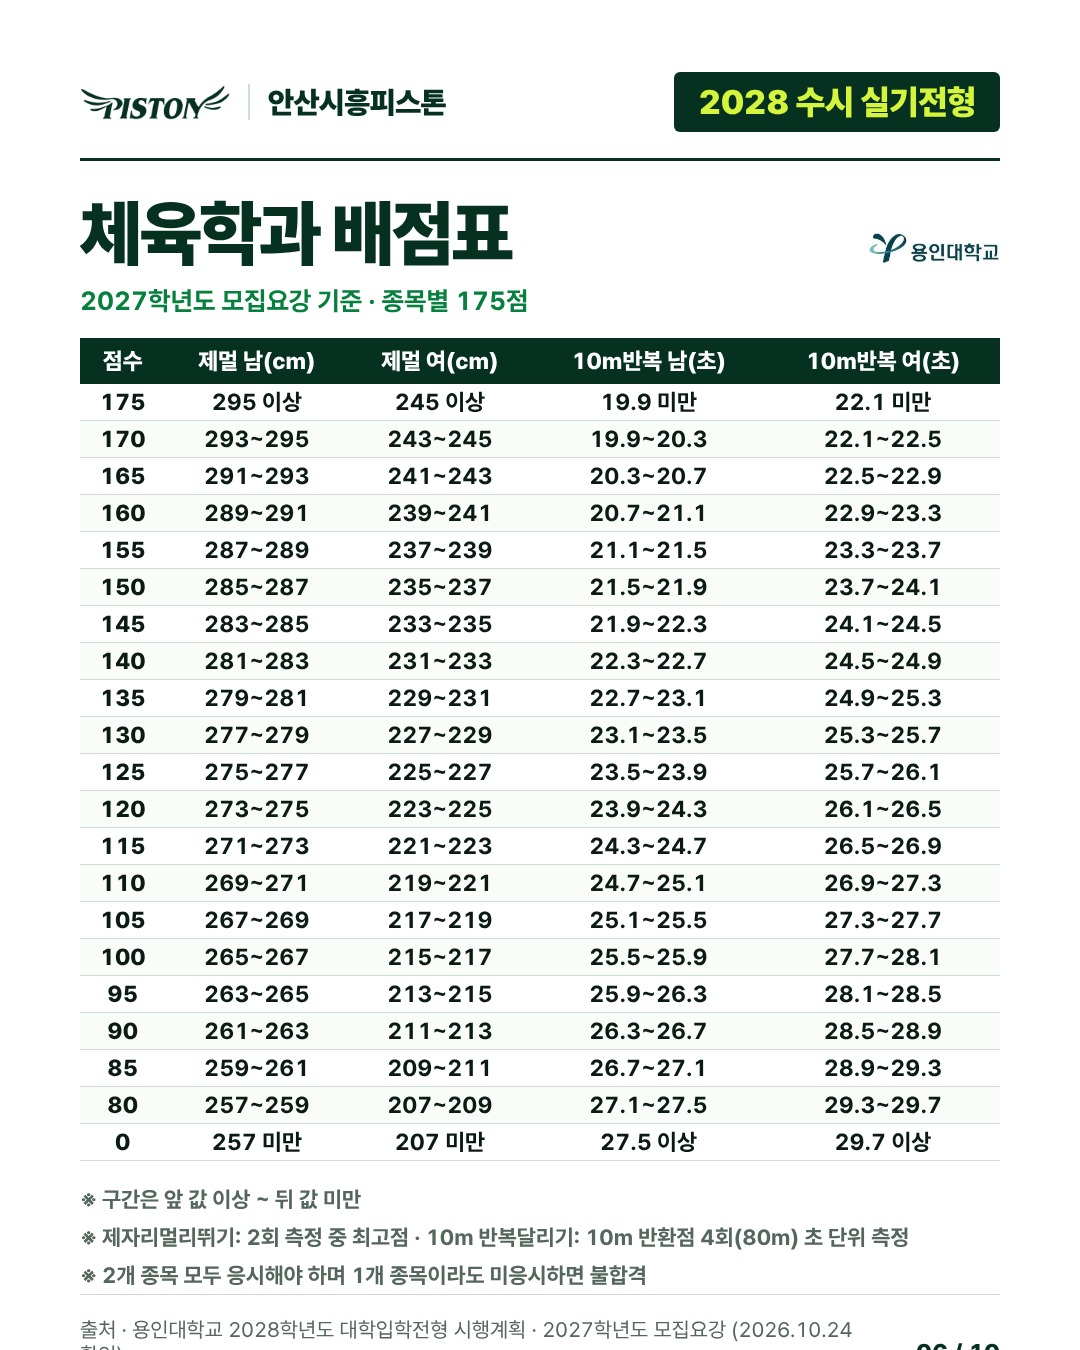
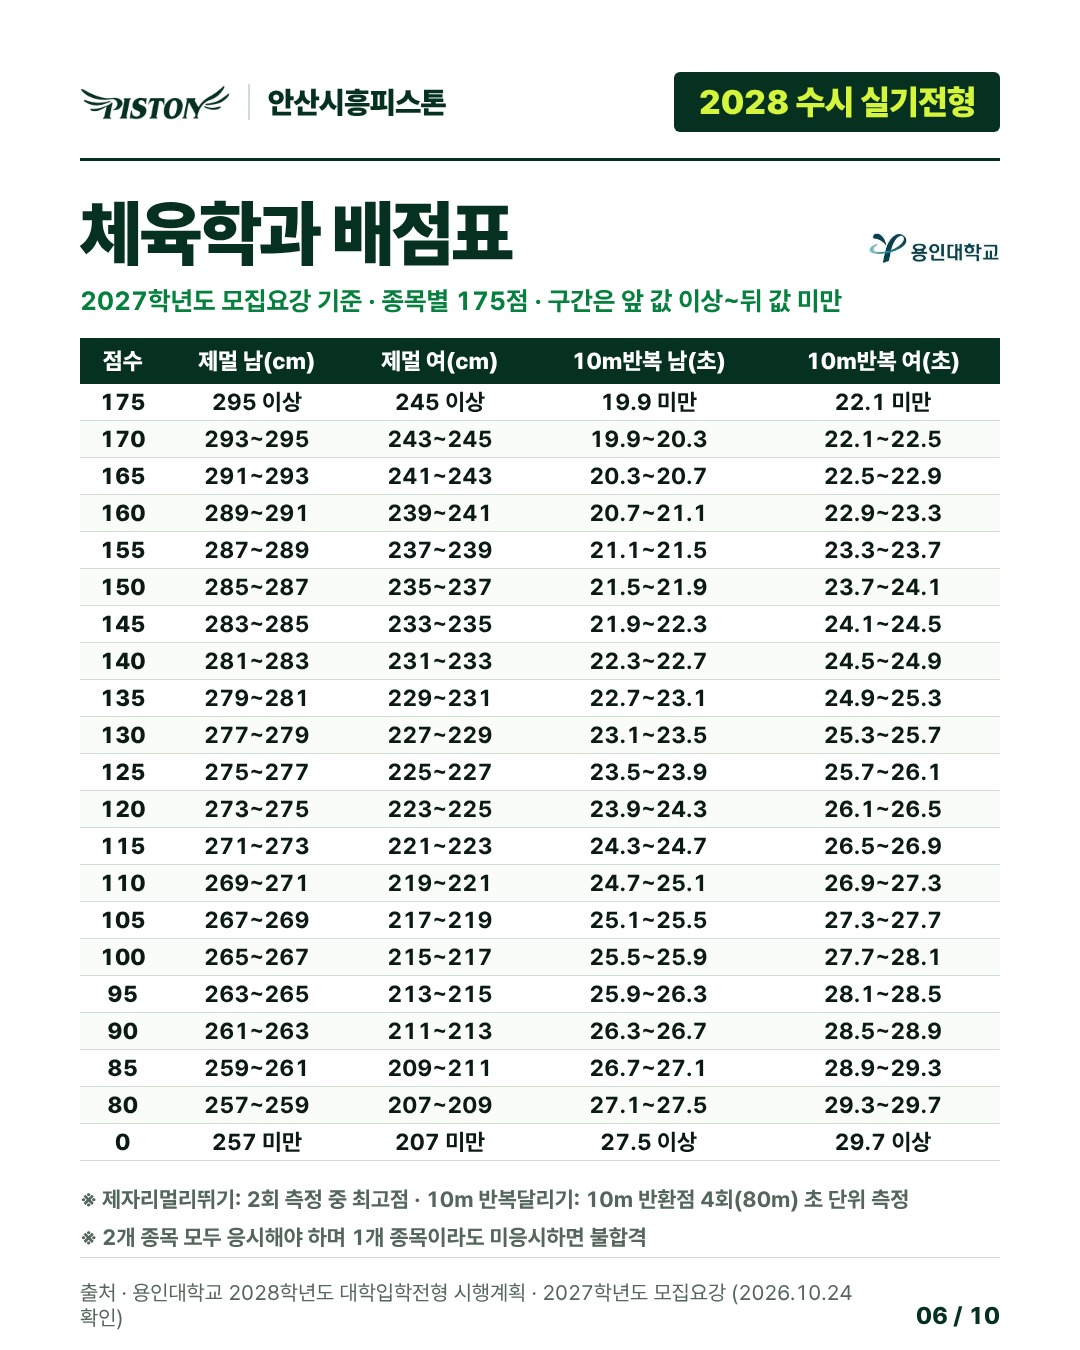
용인대 배점표 양식 통일, 수시 표 밀도 조정
Claude-Session: https://claude.ai/code/session_01EGTn7G8nWP1yv5M2jqmoFb

Changed region(s): [[0.0611, 0.8711, 0.8556, 1.0], [0.5194, 0.2178, 0.7944, 0.2489], [0.825, 0.9644, 0.9472, 1.0]]

diff --git a/social/out/yongin-susi/blog.md b/social/out/yongin-susi/blog.md
@@ -55,7 +55,7 @@
 
 
 
-## 스포츠레저학과 배점표 (2027학년도 모집요강 기준 · 종목별 175점)
+## 스포츠레저학과 배점표 (2027학년도 모집요강 기준 · 종목별 175점 · 구간은 앞 값 이상~뒤 값 미만)
 | 점수 | 제멀 남(cm) | 제멀 여(cm) | 10m반복 남(초) | 10m반복 여(초) |
 | --- | --- | --- | --- | --- |
 | 175 | 300 이상 | 250 이상 | 19.4 미만 | 21.6 미만 |
@@ -71,13 +71,12 @@
 | 75 | 250~255 | 200~205 | 23.9~24.4 | 26.1~26.6 |
 | 0 | 250 미만 | 200 미만 | 24.4 이상 | 26.6 이상 |
 
-※ 구간은 앞 값 이상 ~ 뒤 값 미만
 ※ 제자리멀리뛰기: 2회 측정 중 최고점 · 10m 반복달리기: 10m 반환점 4회(80m) 초 단위 측정
 ※ 2개 종목 모두 응시해야 하며 1개 종목이라도 미응시하면 불합격
 
 [이미지: post-5.jpg]
 
-## 체육학과 배점표 (2027학년도 모집요강 기준 · 종목별 175점)
+## 체육학과 배점표 (2027학년도 모집요강 기준 · 종목별 175점 · 구간은 앞 값 이상~뒤 값 미만)
 | 점수 | 제멀 남(cm) | 제멀 여(cm) | 10m반복 남(초) | 10m반복 여(초) |
 | --- | --- | --- | --- | --- |
 | 175 | 295 이상 | 245 이상 | 19.9 미만 | 22.1 미만 |
@@ -102,13 +101,12 @@
 | 80 | 257~259 | 207~209 | 27.1~27.5 | 29.3~29.7 |
 | 0 | 257 미만 | 207 미만 | 27.5 이상 | 29.7 이상 |
 
-※ 구간은 앞 값 이상 ~ 뒤 값 미만
 ※ 제자리멀리뛰기: 2회 측정 중 최고점 · 10m 반복달리기: 10m 반환점 4회(80m) 초 단위 측정
 ※ 2개 종목 모두 응시해야 하며 1개 종목이라도 미응시하면 불합격
 
 [이미지: post-6.jpg]
 
-## 특수체육교육과 배점표 (2027학년도 모집요강 기준 · 종목별 175점)
+## 특수체육교육과 배점표 (2027학년도 모집요강 기준 · 종목별 175점 · 구간은 앞 값 이상~뒤 값 미만)
 | 점수 | 제멀 남(cm) | 제멀 여(cm) | 10m반복 남(초) | 10m반복 여(초) |
 | --- | --- | --- | --- | --- |
 | 175 | 284 이상 | 231 이상 | 20.3 미만 | 22.5 미만 |
@@ -123,7 +121,6 @@
 | 20 | 215~223 | 146~155 | 23.5~23.9 | 25.7~26.1 |
 | 0 | 215 미만 | 146 미만 | 23.9 이상 | 26.1 이상 |
 
-※ 구간은 앞 값 이상 ~ 뒤 값 미만
 ※ 제자리멀리뛰기: 2회 측정 중 최고점 · 10m 반복달리기: 10m 반환점 4회(80m) 초 단위 측정
 ※ 2개 종목 모두 응시해야 하며 1개 종목이라도 미응시하면 불합격
 
